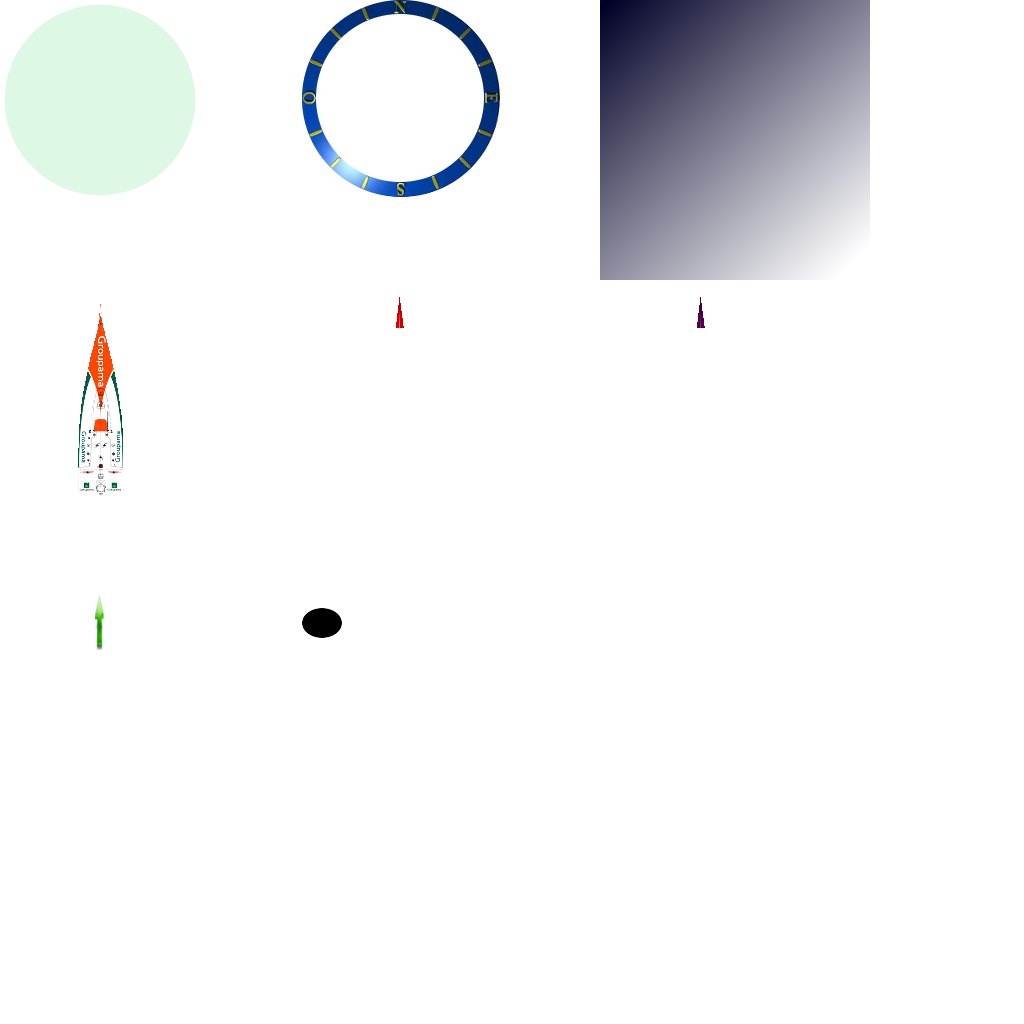
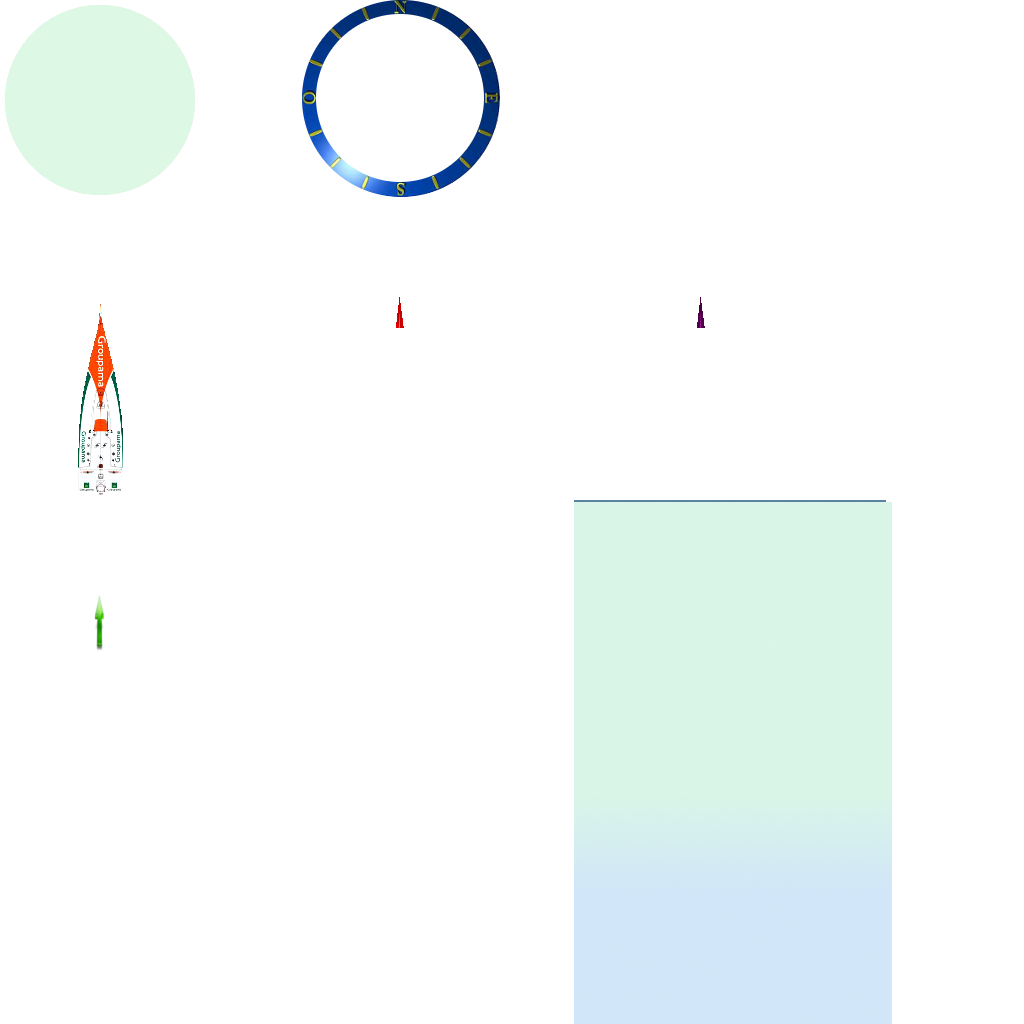
Continuing new vlm board
git-svn-id: svn://svn.code.sf.net/p/qtvlm/code/branches/qtVlm_dev@1730 2387b160-4621-4e8a-be36-40ea10d72da2

Changed region(s): [[0.5625, 0.4688, 0.875, 1.0], [0.5625, 0.0, 0.875, 0.2812], [0.2812, 0.5938, 0.3438, 0.625]]

diff --git a/src/Dialogs/BoardVlmNew.cpp b/src/Dialogs/BoardVlmNew.cpp
@@ -4,6 +4,7 @@
 #include "POI.h"
 #include "DialogWp.h"
 #include "Polar.h"
+#include "settings.h"
 #include <QBitmap>
 BoardVlmNew::BoardVlmNew(MainWindow *main)
     : QDialog(main)
@@ -28,6 +29,7 @@ BoardVlmNew::BoardVlmNew(MainWindow *main)
     defaultStyleSheet=this->lab_TWA->styleSheet();
     connect(this->btn_sync,SIGNAL(clicked()),this,SLOT(slot_vlmSync()));
     connect(main,SIGNAL(boatHasUpdated(boat*)),this,SLOT(slot_updateData()));
+    connect(main,SIGNAL(boatChanged(boat*)),this,SLOT(slot_updateData()));
     connect(main,SIGNAL(WPChanged(double,double)),this,SLOT(slot_wpChanged()));
     connect(main,SIGNAL(outDatedVlmData()),this,SLOT(slot_outDatedVlmData()));
     connect(this->rd_HDG,SIGNAL(clicked()),this,SLOT(slot_sendOrder()));
@@ -44,6 +46,7 @@ BoardVlmNew::BoardVlmNew(MainWindow *main)
     connect(btn_clearWP,SIGNAL(clicked()),this,SLOT(slot_clearWP()));
     connect(main,SIGNAL(selectPOI(bool)),this,SLOT(slot_selectPOI(bool)));
     connect(main,SIGNAL(wpChanged()),this,SLOT(slot_updateBtnWP()));
+    connect(main,SIGNAL(paramVLMChanged()),this,SLOT(slot_updateData()));
     wpDialog = new DialogWp();
     connect(wpDialog,SIGNAL(selectPOI()),this,SLOT(slot_selectWP_POI()));
     connect(wpDialog,SIGNAL(selectPOI()),main,SLOT(slotSelectWP_POI()));
@@ -62,6 +65,17 @@ BoardVlmNew::BoardVlmNew(MainWindow *main)
     set_style(btn_wp);
     this->spin_HDG->installEventFilter(this);
     this->spin_TWA->installEventFilter(this);
+    QPixmap skin;
+    skin.load("img/skin_compas.png");
+    QPixmap bg(270,510);
+    bg.fill(Qt::transparent);
+    QPainter pnt(&bg);
+    pnt.setCompositionMode(QPainter::CompositionMode_SourceOver);
+    pnt.setRenderHint(QPainter::Antialiasing,true);
+    pnt.drawPixmap(0,0,skin,600,500,270,510);
+    pnt.end();
+    this->lab_back->setPixmap(bg);
+    this->lab_backTab1->setPixmap(bg);
 }
 
 BoardVlmNew::~BoardVlmNew()
@@ -89,6 +103,11 @@ void BoardVlmNew::slot_TWAChanged()
     this->windAngle->setValues(myBoat->getHeading(),myBoat->getWindDir(),myBoat->getWindSpeed(),myBoat->getWPdir(),myBoat->getClosest().capArrival,heading);
     if(!timer->isActive())
         timer->start();
+    /* update estime */
+    double newSpeed=myBoat->getSpeed();
+    if(myBoat->getPolarData())
+        newSpeed=myBoat->getPolarData()->getSpeed(myBoat->getWindSpeed(),qAbs(spin_TWA->value()));
+    myBoat->drawEstime(spin_HDG->value(),newSpeed);
     blocking=false;
 }
 void BoardVlmNew::slot_HDGChanged()
@@ -112,6 +131,11 @@ void BoardVlmNew::slot_HDGChanged()
     spin_TWA->blockSignals(false);
     if(!timer->isActive())
         timer->start();
+    /* update estime */
+    double newSpeed=myBoat->getSpeed();
+    if(myBoat->getPolarData())
+        newSpeed=myBoat->getPolarData()->getSpeed(myBoat->getWindSpeed(),qAbs(spin_TWA->value()));
+    myBoat->drawEstime(spin_HDG->value(),newSpeed);
     blocking=false;
 }
 
@@ -193,6 +217,7 @@ void BoardVlmNew::slot_updateData()
     this->blockSignals(true);
     set_style(this->btn_sync,QColor(255,255,127));
     updateLcds();
+    this->lab_RANK->setText(myBoat->getName()+" "+myBoat->getScore()+" ("+QString().sprintf("%d",myBoat->getRank())+")");
     this->spin_HDG->setValue(myBoat->getHeading());
     this->spin_TWA->setValue(computeAngle());
     if(qAbs(spin_TWA->value())<myBoat->getPolarData()->getBvmgUp(myBoat->getWindSpeed()) ||
@@ -258,6 +283,11 @@ void BoardVlmNew::updateLcds()
     s.sprintf("%.2f",(double)qRound(myBoat->getWindDir()*100.0)/100.0);
     lcd_TWD->setDigitCount(s.count());
     this->lcd_TWD->display(s);
+    QColor color=Grib::getWindColorStatic(myBoat->getWindSpeed(),Settings::getSetting("colorMapSmooth", true).toBool());
+    this->lcd_TWS->setStyleSheet((QString().sprintf("background-color: rgb(%d, %d, %d);",color.red(),color.green(),color.blue())));
+    color=Qt::white;
+    this->lcd_TWD->setStyleSheet((QString().sprintf("background-color: rgba(%d, %d, %d,%d);",color.red(),color.green(),color.blue(),180)));
+    this->lcd_BS->setStyleSheet((QString().sprintf("background-color: rgba(%d, %d, %d, %d);",color.red(),color.green(),color.blue(),180)));
 }
 void BoardVlmNew::slot_timerElapsed()
 {

diff --git a/src/mycentralwidget.cpp b/src/mycentralwidget.cpp
@@ -423,6 +423,7 @@ myCentralWidget::myCentralWidget(Projection * proj,MainWindow * parent,MenuBar *
     connect(menuBar->acMap_CountriesNames, SIGNAL(triggered(bool)), terre,  SLOT(setCountriesNames(bool)));
     connect(menuBar->acView_WindColors, SIGNAL(triggered(bool)), terre,  SLOT(slot_setDrawWindColors(bool)));
     connect(menuBar->acView_ColorMapSmooth, SIGNAL(triggered(bool)), terre,  SLOT(setColorMapSmooth(bool)));
+    connect(menuBar->acView_ColorMapSmooth, SIGNAL(triggered(bool)), this->mainW,  SLOT(slotParamChanged()));
     connect(menuBar->acView_WindArrow, SIGNAL(triggered(bool)), terre,  SLOT(setDrawWindArrows(bool)));
     connect(menuBar->acView_Barbules, SIGNAL(triggered(bool)), terre,  SLOT(setBarbules(bool)));
     connect(menuBar->acView_TemperatureLabels, SIGNAL(triggered(bool)),terre,  SLOT(slotTemperatureLabels(bool)));

diff --git a/src/MainWindow.cpp b/src/MainWindow.cpp
@@ -63,6 +63,7 @@ Copyright (C) 2008 - Jacques Zaninetti - http://zygrib.free.fr
 #include "Progress.h"
 #include "StatusBar.h"
 #include "BarrierSet.h"
+#include "BoardVlmNew.h"
 
 #include "DialogPoiDelete.h"
 #include "DialogPoi.h"
@@ -660,6 +661,7 @@ void MainWindow::closeProgress(void)
             timer->start(1000);
         }
         emit WPChanged(selectedBoat->getWPLat(),selectedBoat->getWPLon());
+        emit boatChanged(selectedBoat);
     }
     statusBar->show();
     menuBar->show();

diff --git a/src/Dialogs/BoardVlm.cpp b/src/Dialogs/BoardVlm.cpp
@@ -1034,7 +1034,7 @@ void tool_windAngle::draw(QPainter * painter)
 
 QColor tool_windAngle::windSpeed_toColor()
 {
-    return Grib::getWindColorStatic(windSpeed);
+    return Grib::getWindColorStatic(windSpeed,Settings::getSetting("colorMapSmooth", true).toBool());
    //color from VLM code: http://www.virtual-loup-de-mer.org
    // <=F0 : blanc
    if (windSpeed <= 1) return QColor(255, 255, 255);

diff --git a/src/MainWindow.h b/src/MainWindow.h
@@ -42,7 +42,6 @@ Copyright (C) 2008 - Jacques Zaninetti - http://zygrib.free.fr
 
 #include "class_list.h"
 #include "dataDef.h"
-#include "BoardVlmNew.h"
 
 class MainWindow: public QMainWindow
 {
